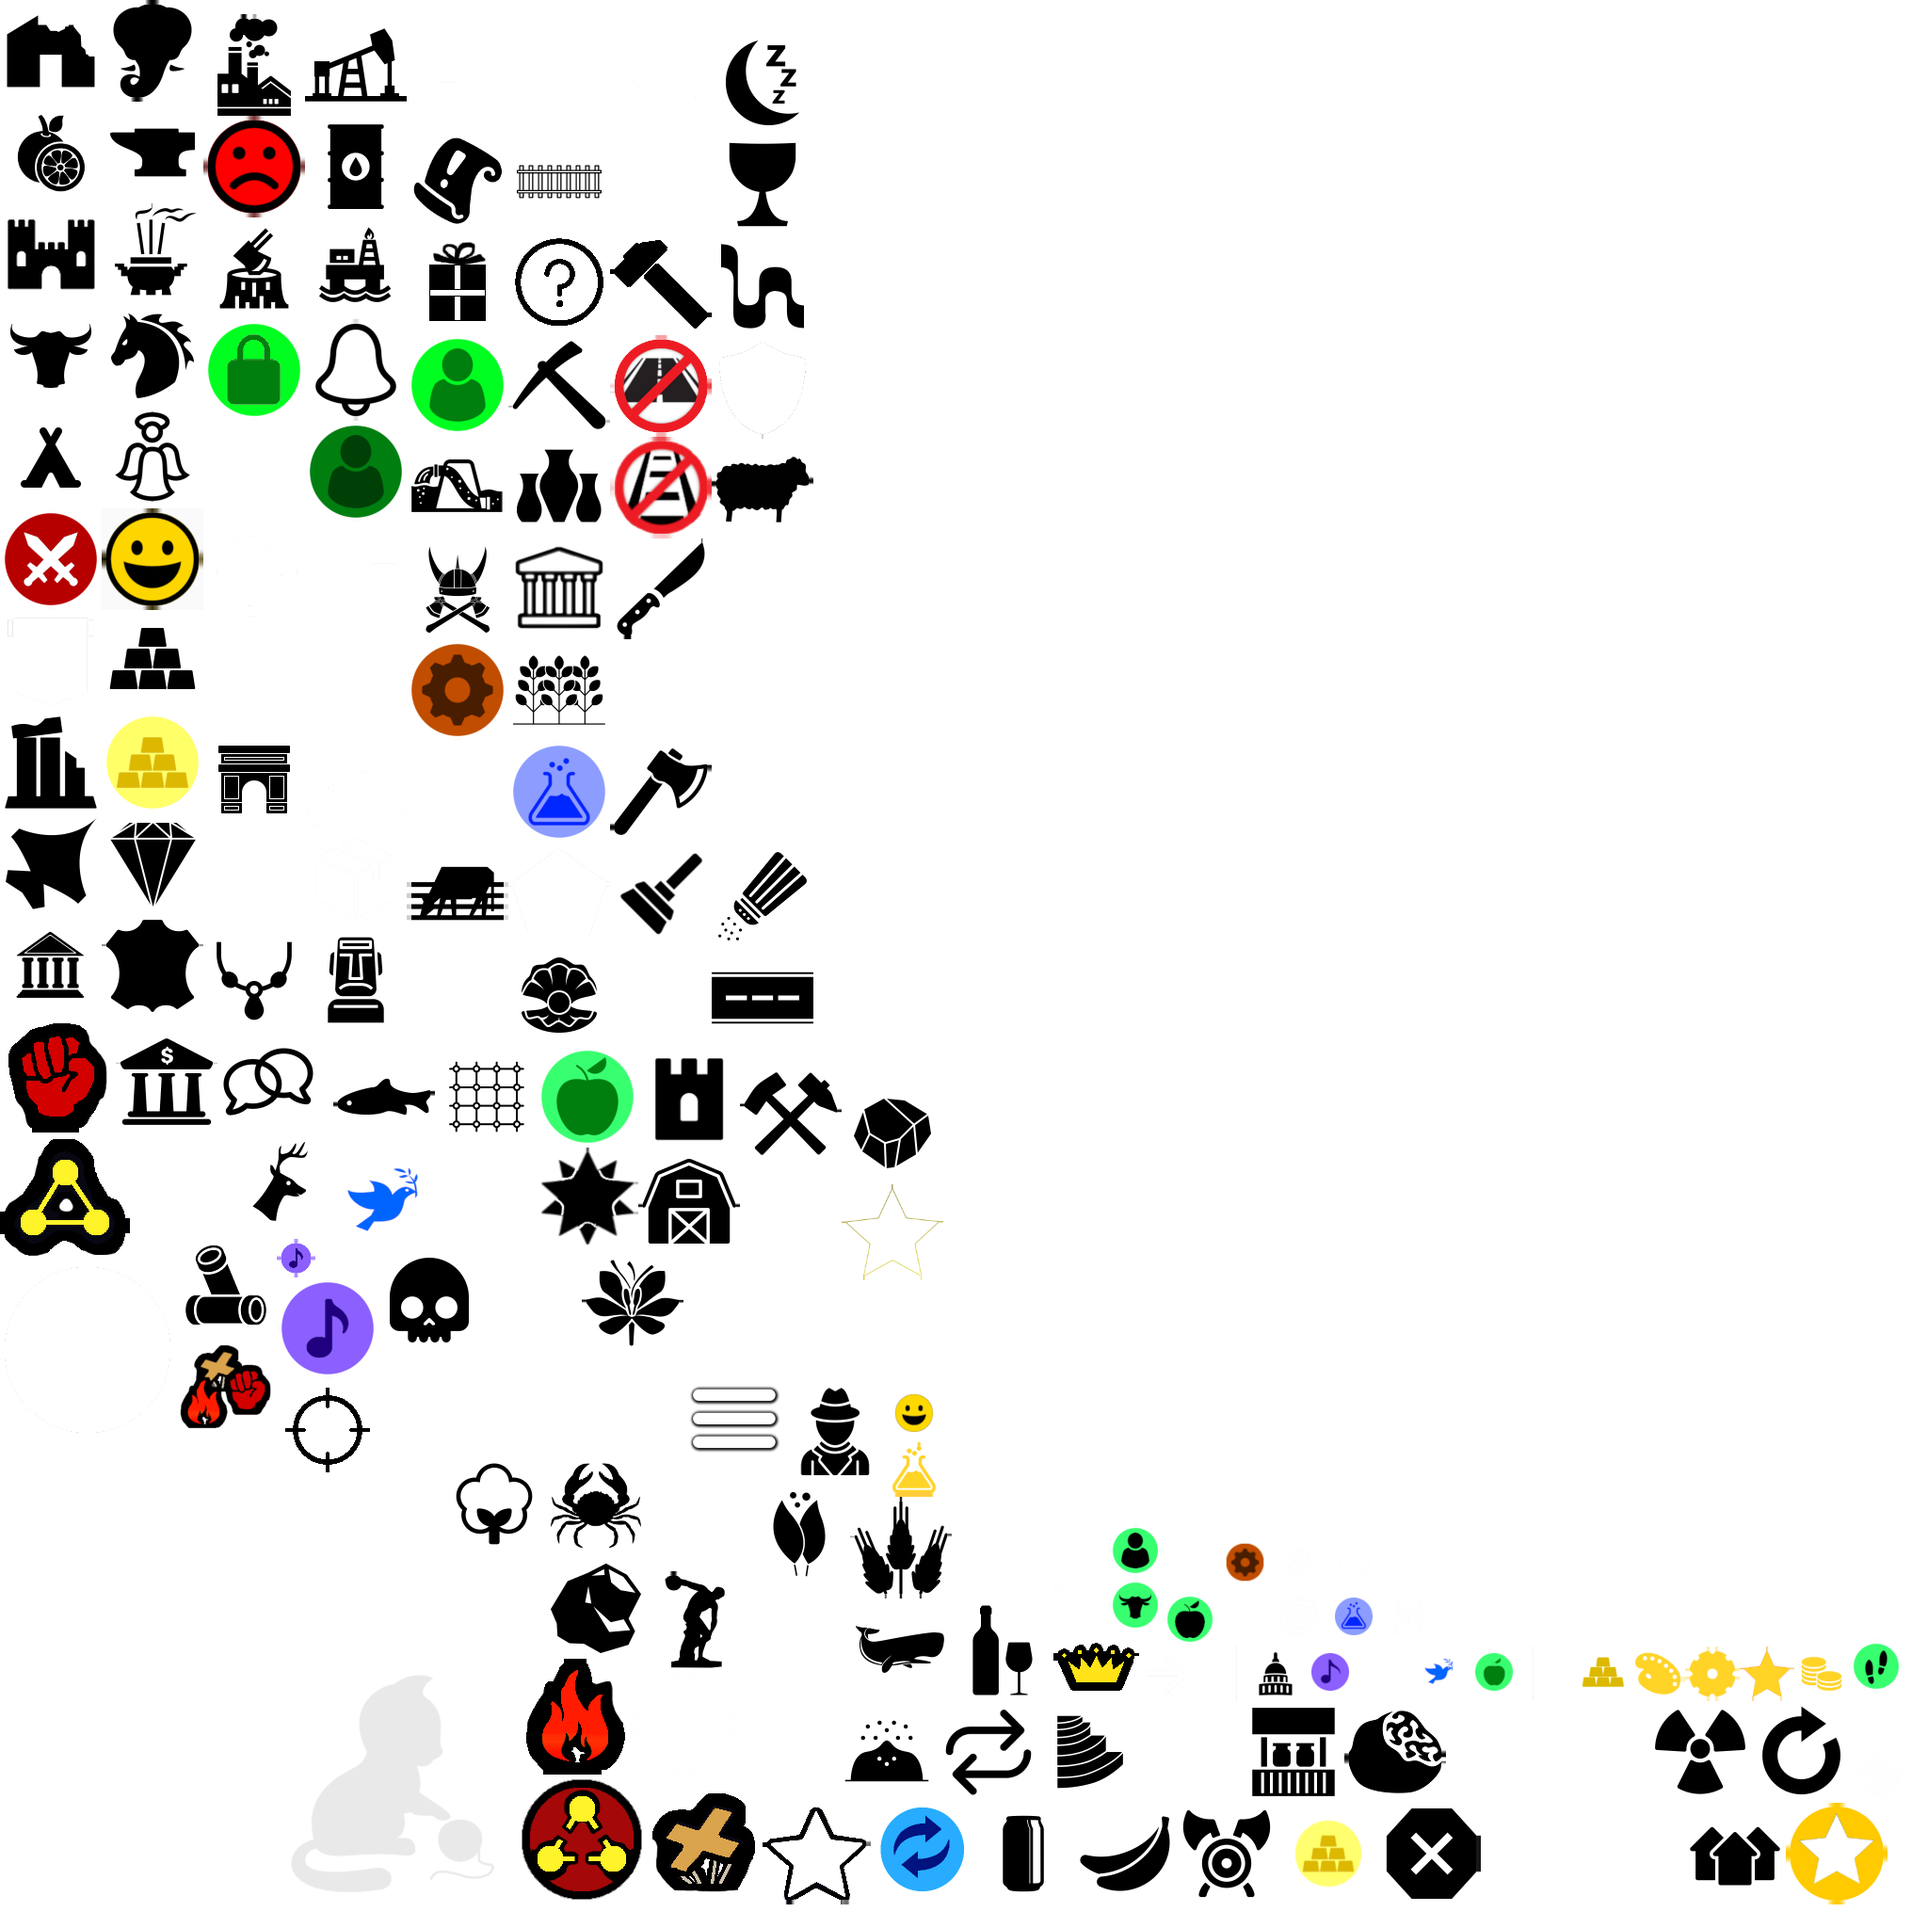
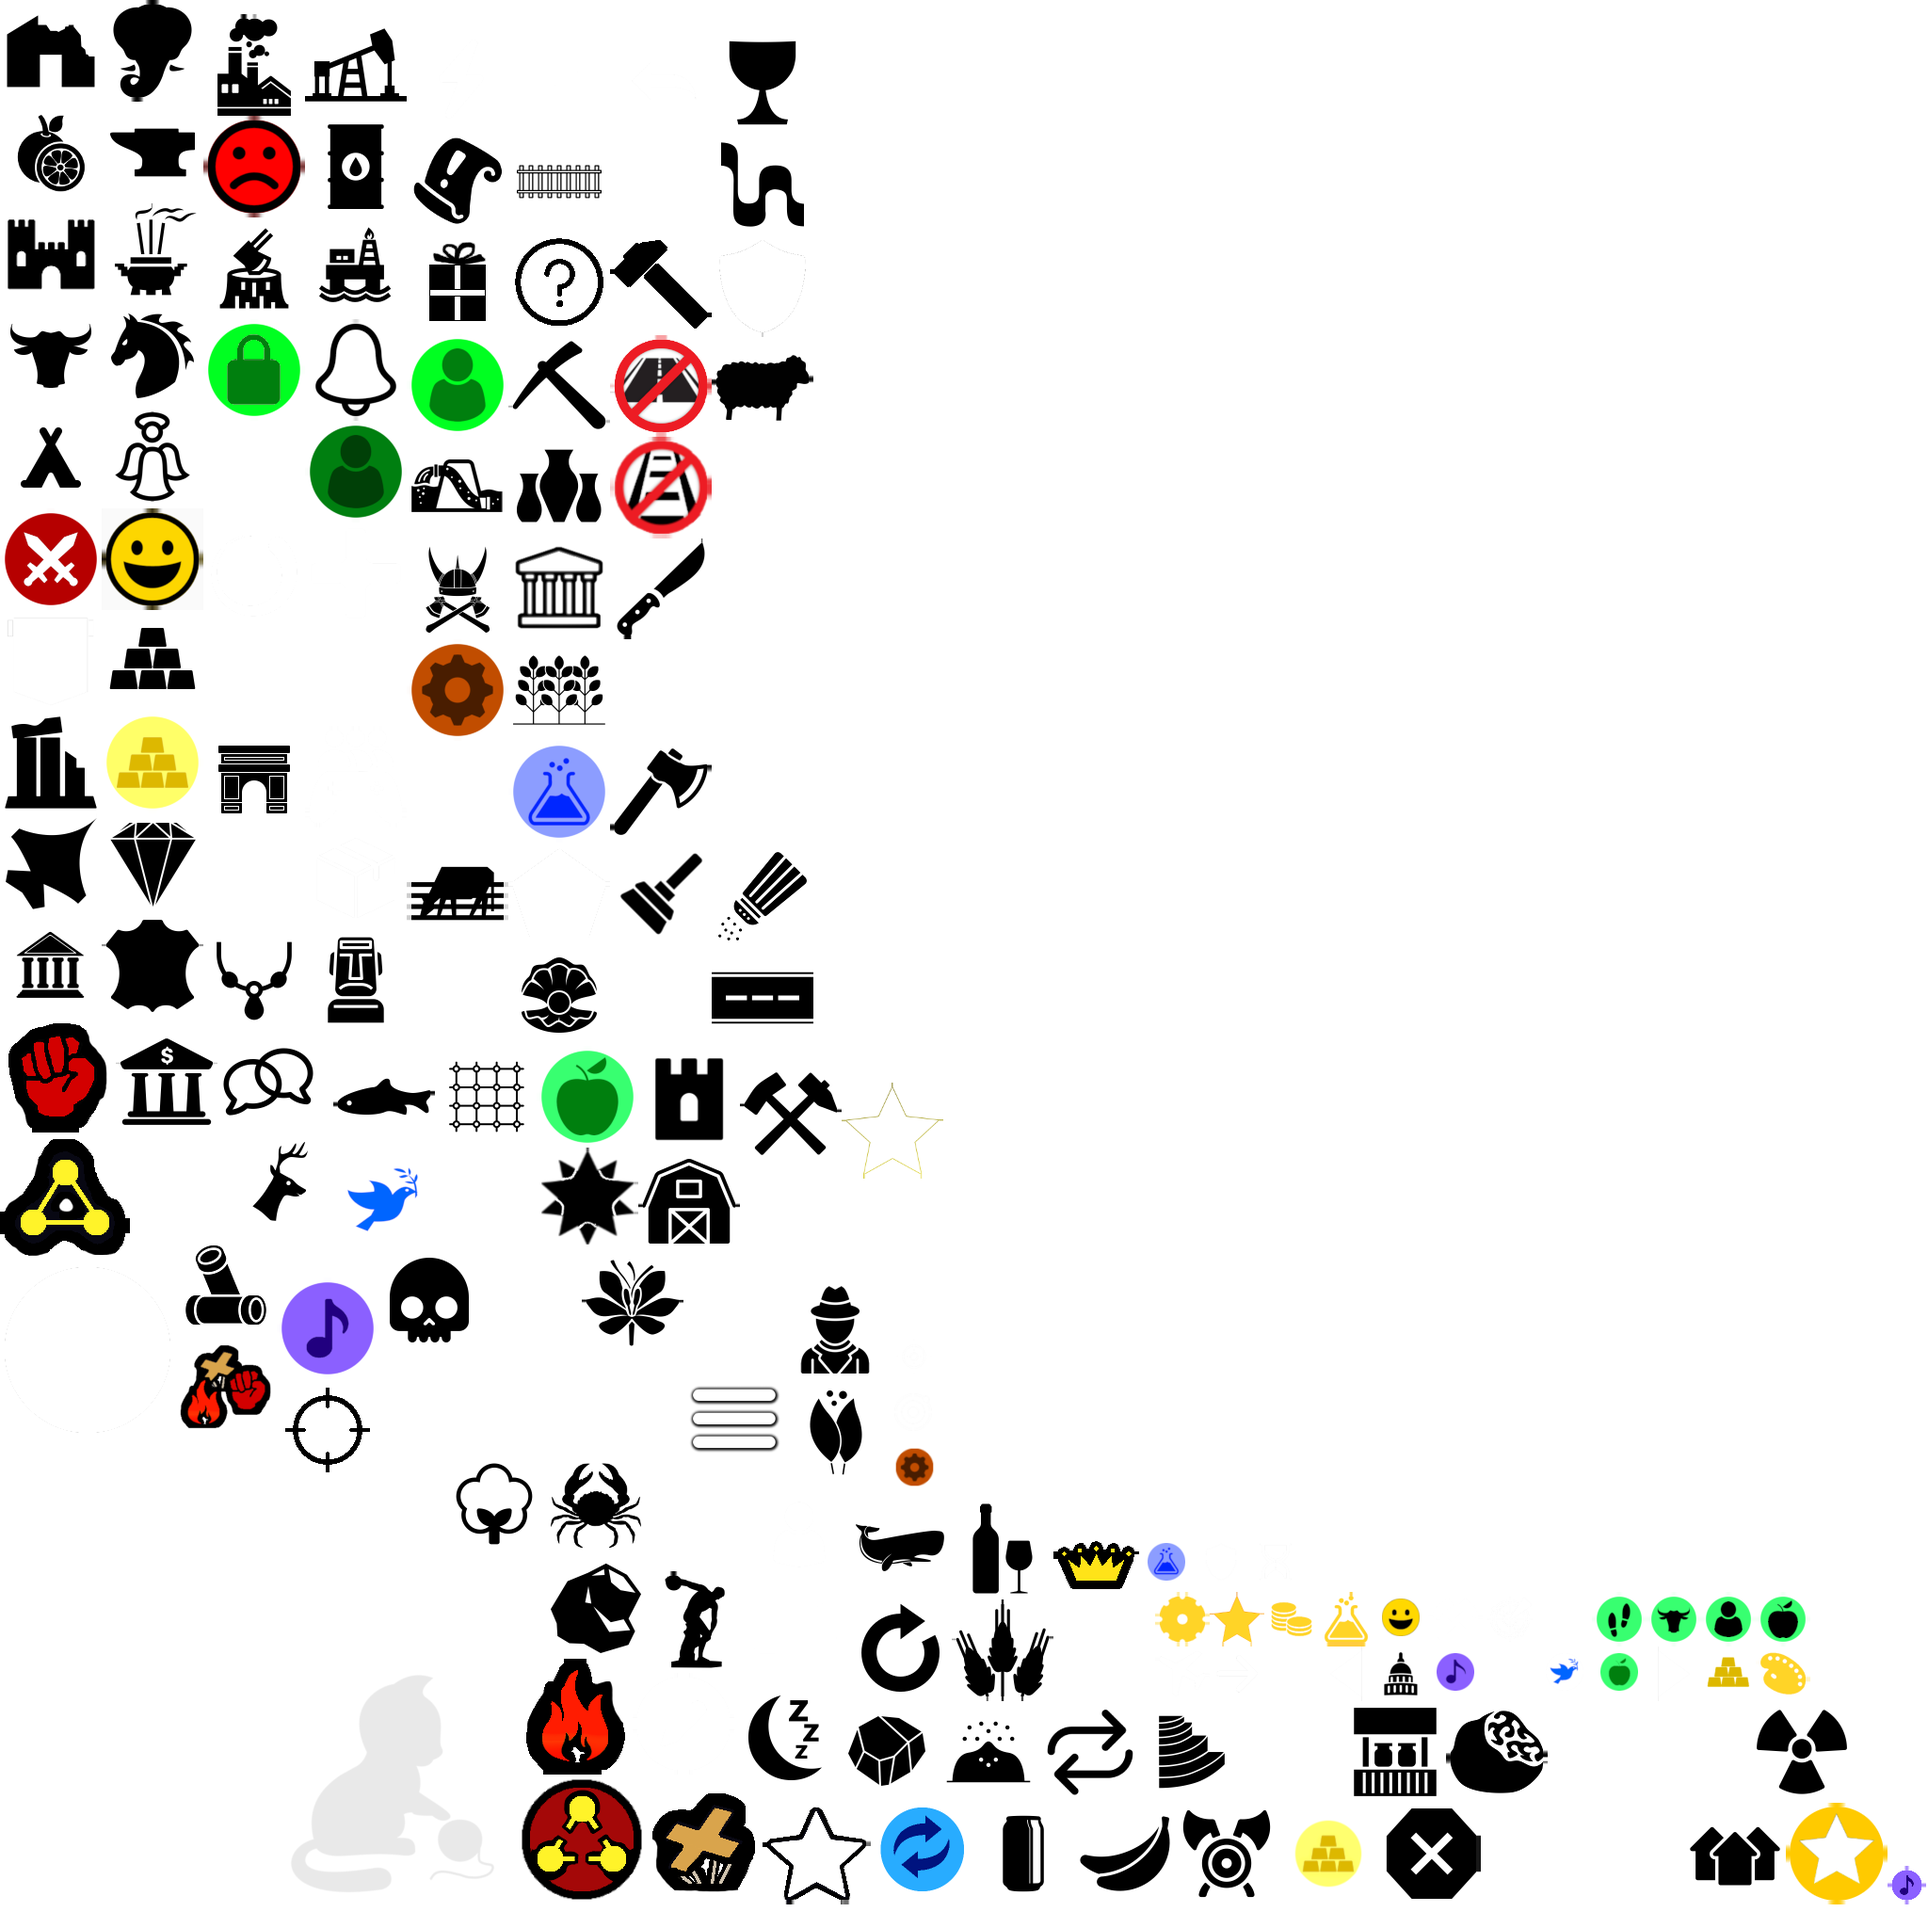
Minor Scenarios UX improvements (#11466)
* Give "Scenarios" its own icon

* A little more wiki info on the console

* Minor ScenarioScreen UX improvements

diff --git a/core/src/com/unciv/ui/screens/mainmenuscreen/ScenarioScreen.kt b/core/src/com/unciv/ui/screens/mainmenuscreen/ScenarioScreen.kt
@@ -1,45 +1,65 @@
 package com.unciv.ui.screens.mainmenuscreen
 
 import com.badlogic.gdx.files.FileHandle
+import com.unciv.logic.UncivShowableException
 import com.unciv.models.translations.tr
 import com.unciv.ui.components.extensions.enable
-import com.unciv.ui.components.extensions.toTextButton
-import com.unciv.ui.components.input.onClick
+import com.unciv.ui.components.input.KeyCharAndCode
+import com.unciv.ui.components.input.keyShortcuts
+import com.unciv.ui.components.input.onActivation
+import com.unciv.ui.components.input.onDoubleClick
+import com.unciv.ui.popups.ToastPopup
 import com.unciv.ui.screens.pickerscreens.PickerScreen
+import com.unciv.ui.screens.savescreens.VerticalFileListScrollPane
 import com.unciv.utils.Concurrency
+import com.unciv.utils.launchOnGLThread
 
-class ScenarioScreen: PickerScreen() {
+class ScenarioScreen: PickerScreen(disableScroll = true) {
+    private val scenarioScrollPane = VerticalFileListScrollPane()
 
     private var scenarioToLoad: FileHandle? = null
 
-    init {
-        val scenarioFiles = game.files.getScenarioFiles()
-        rightSideButton.setText("Choose scenario")
-        topTable.defaults().pad(5f)
-        Concurrency.run {
-            for ((file, mod) in scenarioFiles) {
-                try {
-                    val scenarioPreview = game.files.loadGamePreviewFromFile(file)
-                    Concurrency.runOnGLThread {
-                        topTable.add(file.name().toTextButton().onClick {
-                            descriptionLabel.setText("Mod: [${mod.name}]".tr())
-                            scenarioToLoad = file
-                            rightSideButton.setText(file.name())
-                            rightSideButton.enable()
-                        }).row()
-                    }
-                } catch (ex: Exception) { } // invalid, couldn't even load preview, probably invalid json
-            }
-        }
+    /** Caches the mod names while the getScenarioFiles Sequence is iterated */
+    private val sourceMods = mutableMapOf<FileHandle, String>()
 
-        rightSideButton.onClick {
-            if (scenarioToLoad != null)
-                Concurrency.run {
-                    val scenario = game.files.loadScenario(scenarioToLoad!!)
-                    game.loadGame(scenario)
-                }
-        }
+    init {
+        scenarioScrollPane.onChange(::selectScenario)
+        scenarioScrollPane.onDoubleClick(action = ::loadSelectedScenario)
+        topTable.defaults().pad(5f)
+        topTable.add(scenarioScrollPane).grow().row()
+
+        rightSideButton.setText("Choose scenario")
+        rightSideButton.onActivation(::loadSelectedScenario)
+        rightSideButton.keyShortcuts.add(KeyCharAndCode.RETURN)
 
         setDefaultCloseAction()
+
+        scenarioScrollPane.update(
+            game.files.getScenarioFiles().map {
+                sourceMods[it.first] = it.second.name
+                it.first
+            }
+        )
+    }
+
+    private fun selectScenario(file: FileHandle) {
+        descriptionLabel.setText(sourceMods[file]?.let { "Mod: [$it]".tr() })
+        scenarioToLoad = file
+        rightSideButton.setText(file.name())
+        rightSideButton.enable()
+    }
+
+    private fun loadSelectedScenario() {
+        val file = scenarioToLoad ?: return
+        Concurrency.run("LoadScenario") {
+            try {
+                val scenario = game.files.loadScenario(file)
+                game.loadGame(scenario)
+            } catch (ex: UncivShowableException) {
+                launchOnGLThread {
+                    ToastPopup("{Error loading scenario:}\n{${ex.message}}", this@ScenarioScreen)
+                }
+            }
+        }
     }
 }

diff --git a/core/src/com/unciv/ui/screens/savescreens/VerticalFileListScrollPane.kt b/core/src/com/unciv/ui/screens/savescreens/VerticalFileListScrollPane.kt
@@ -21,7 +21,6 @@ import com.unciv.utils.launchOnGLThread
 /** A widget holding TextButtons vertically in a Table contained in a ScrollPane, with methods to
  *  hold file names and FileHandle's in those buttons. Used to display existing saves in the Load and Save game dialogs.
  *
- *  @param shorcutScreen optionally pass in a [BaseScreen] where global keyboard shorcuts should be installed.
  *  @param existingSavesTable exists here for coder convenience. No need to touch.
  */
 class VerticalFileListScrollPane(

diff --git a/core/src/com/unciv/ui/screens/mainmenuscreen/MainMenuScreen.kt b/core/src/com/unciv/ui/screens/mainmenuscreen/MainMenuScreen.kt
@@ -167,7 +167,7 @@ class MainMenuScreen: BaseScreen(), RecreateOnResize {
         column2.add(modsTable).row()
 
         if (game.files.getScenarioFiles().any()){
-            val scenarioTable = getMenuButton("Scenarios", "OtherIcons/Mods", KeyboardBinding.Scenarios)
+            val scenarioTable = getMenuButton("Scenarios", "OtherIcons/Scenarios", KeyboardBinding.Scenarios)
             { game.pushScreen(ScenarioScreen()) }
             column2.add(scenarioTable).row()
         }

diff --git a/docs/Modders/Scenarios.md b/docs/Modders/Scenarios.md
@@ -17,5 +17,15 @@ To create a scenario:
 
 To open the console, click the `` button on your keyboard.
 
-To see available commands, click enter. This works for subcommands as well (e.g. when you entered `tile`)
+To see available commands, click enter. This works for subcommands as well (e.g. when you entered `tile`).
 
+The console has autocompletion:
+* Enter a partial command, subcommand or argument and hit Tab...
+* When the entered part, compared from the start, matches exactly one of the possible options, that option is completed and a space added for the next subcommand or parameter.
+* When no option matches, nothing happens.
+* When two or more options match, the possibilities are displayed, and the longest common substring is entered for you (e.g. you enter 'c', Tab: commands 'city' or 'civ' match, the console partially completes 'ci' for you).
+* When you haven't yet entered a partial text (console input is empty or ends in a space), autocompletion will display all options.
+
+Some commands operate on a tile or unit you need to select on the map before opening the console.
+
+The console does intentionally not follow all rules defined by the ruleset - e.g. it allows Farms on hills without fresh water or the Mobility promotion on a Worker. Any unexpected consequences are your responsibility.

diff --git a/docs/Credits.md b/docs/Credits.md
@@ -748,7 +748,8 @@ Unless otherwise specified, all the following are from [the Noun Project](https:
 -   [Go back](https://thenounproject.com/icon/go%20back-1901947) by Salvia Santos for Resume
 -   [Multiplayer](https://thenounproject.com/icon/multiplayer-1215652) by Roy Charles
 -   [Options](https://thenounproject.com/icon/options-866090) By Thengakola
--   [Package](https://thenounproject.com/icon/package-1886048) by shashank singh
+-   [Package](https://thenounproject.com/icon/package-1886048) by shashank singh for Mods
+-   [scenario planning](https://thenounproject.com/icon/scenario-6569968) by nicolas for Scenarios
 
 ## Sound credits
 
